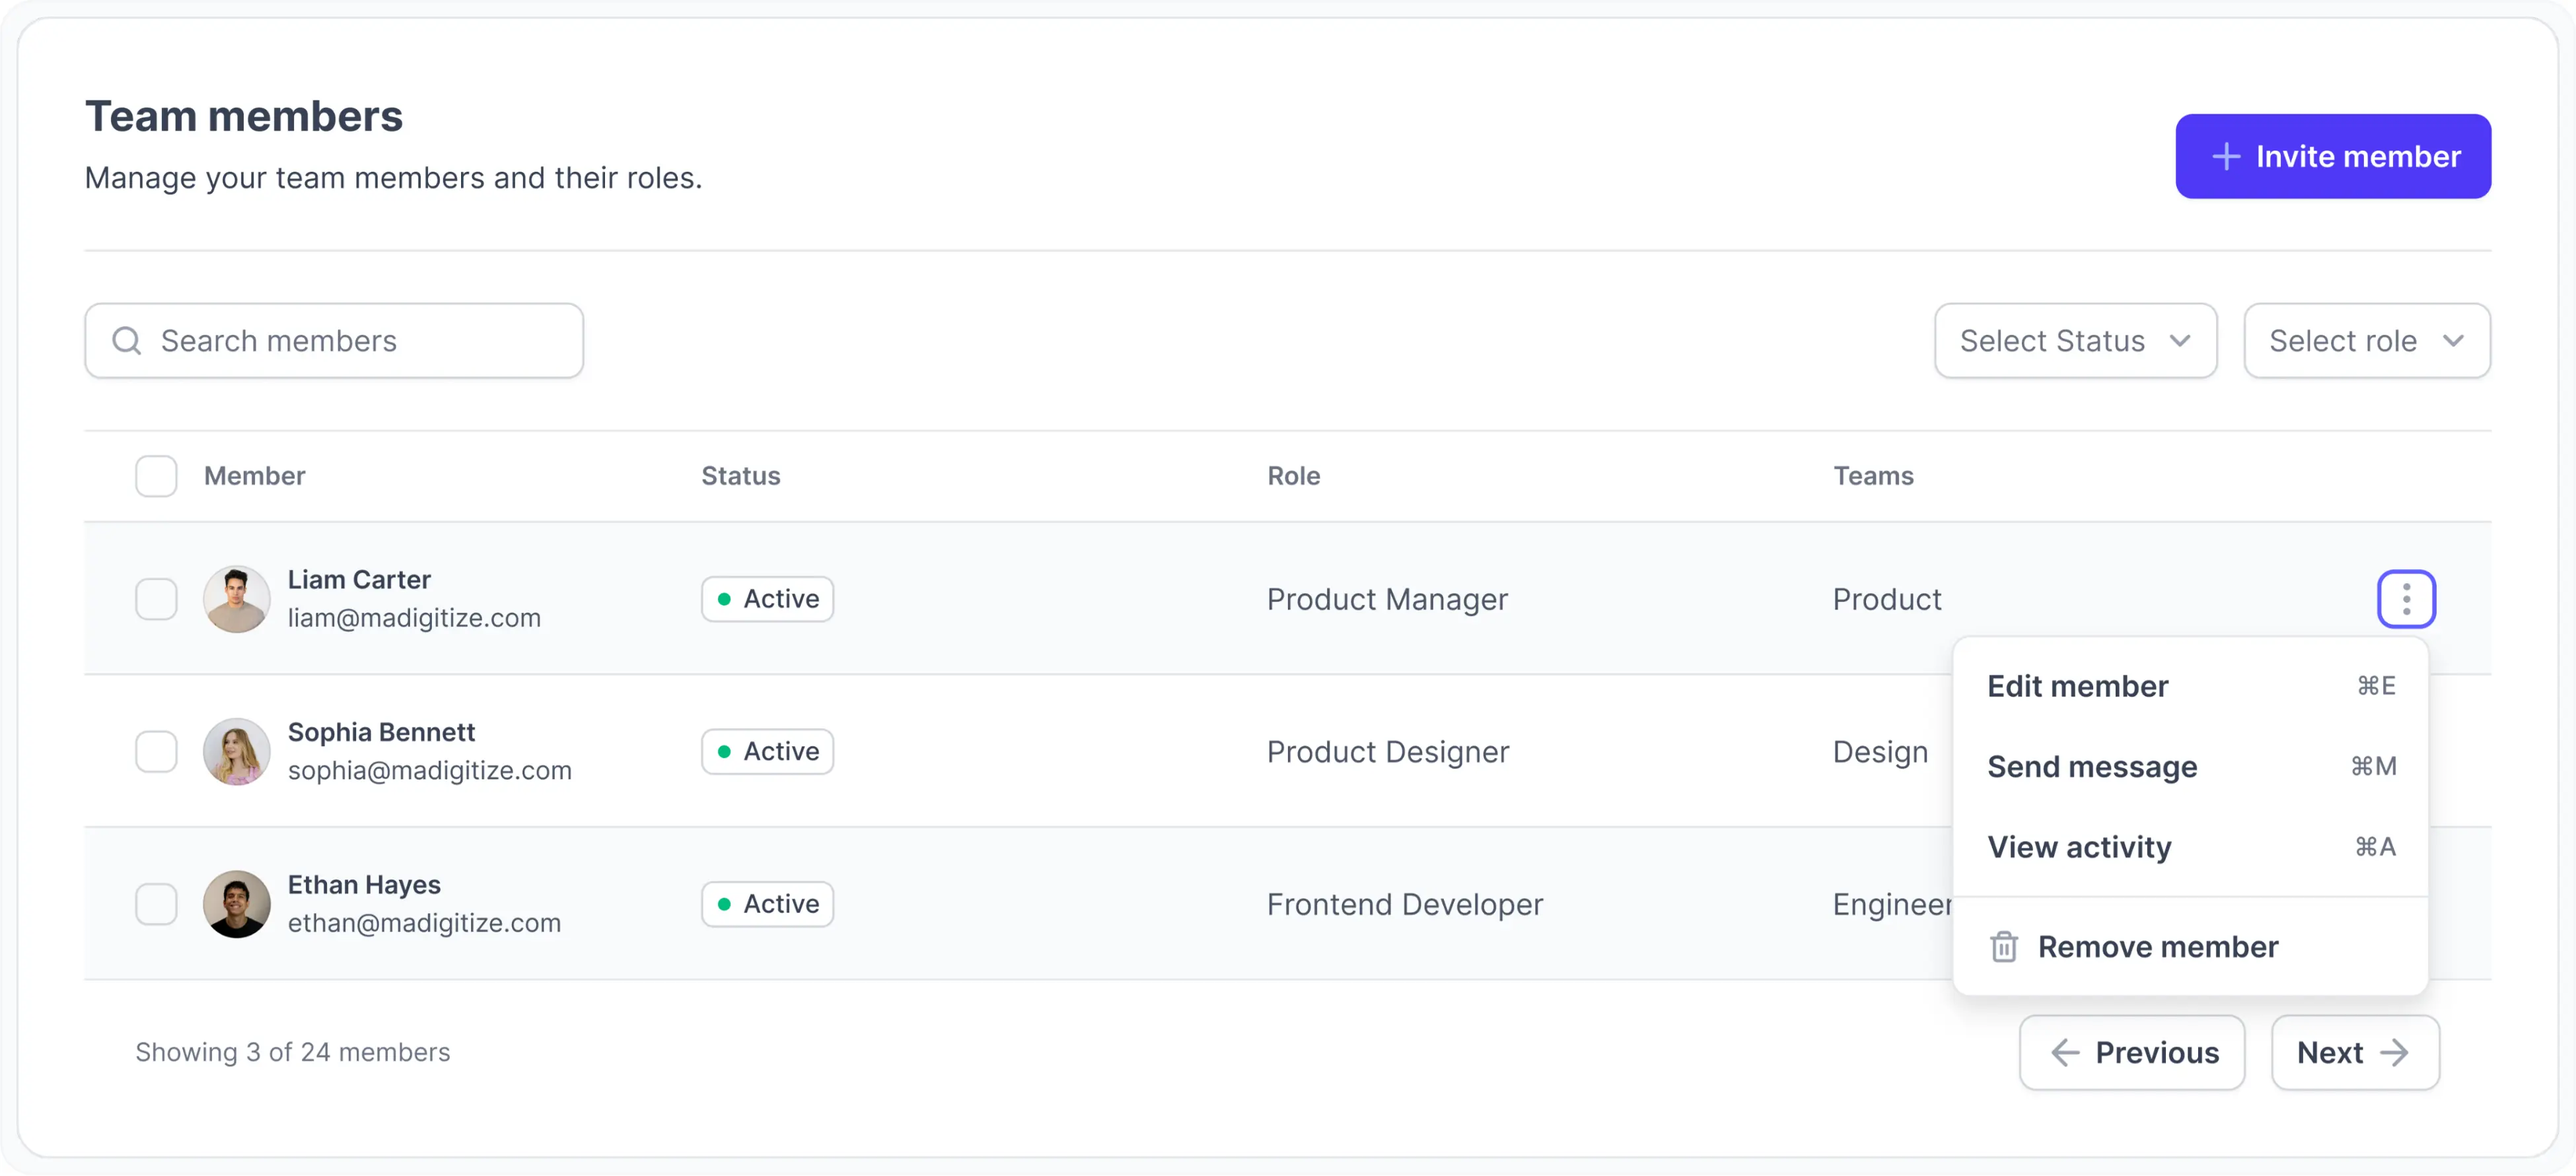
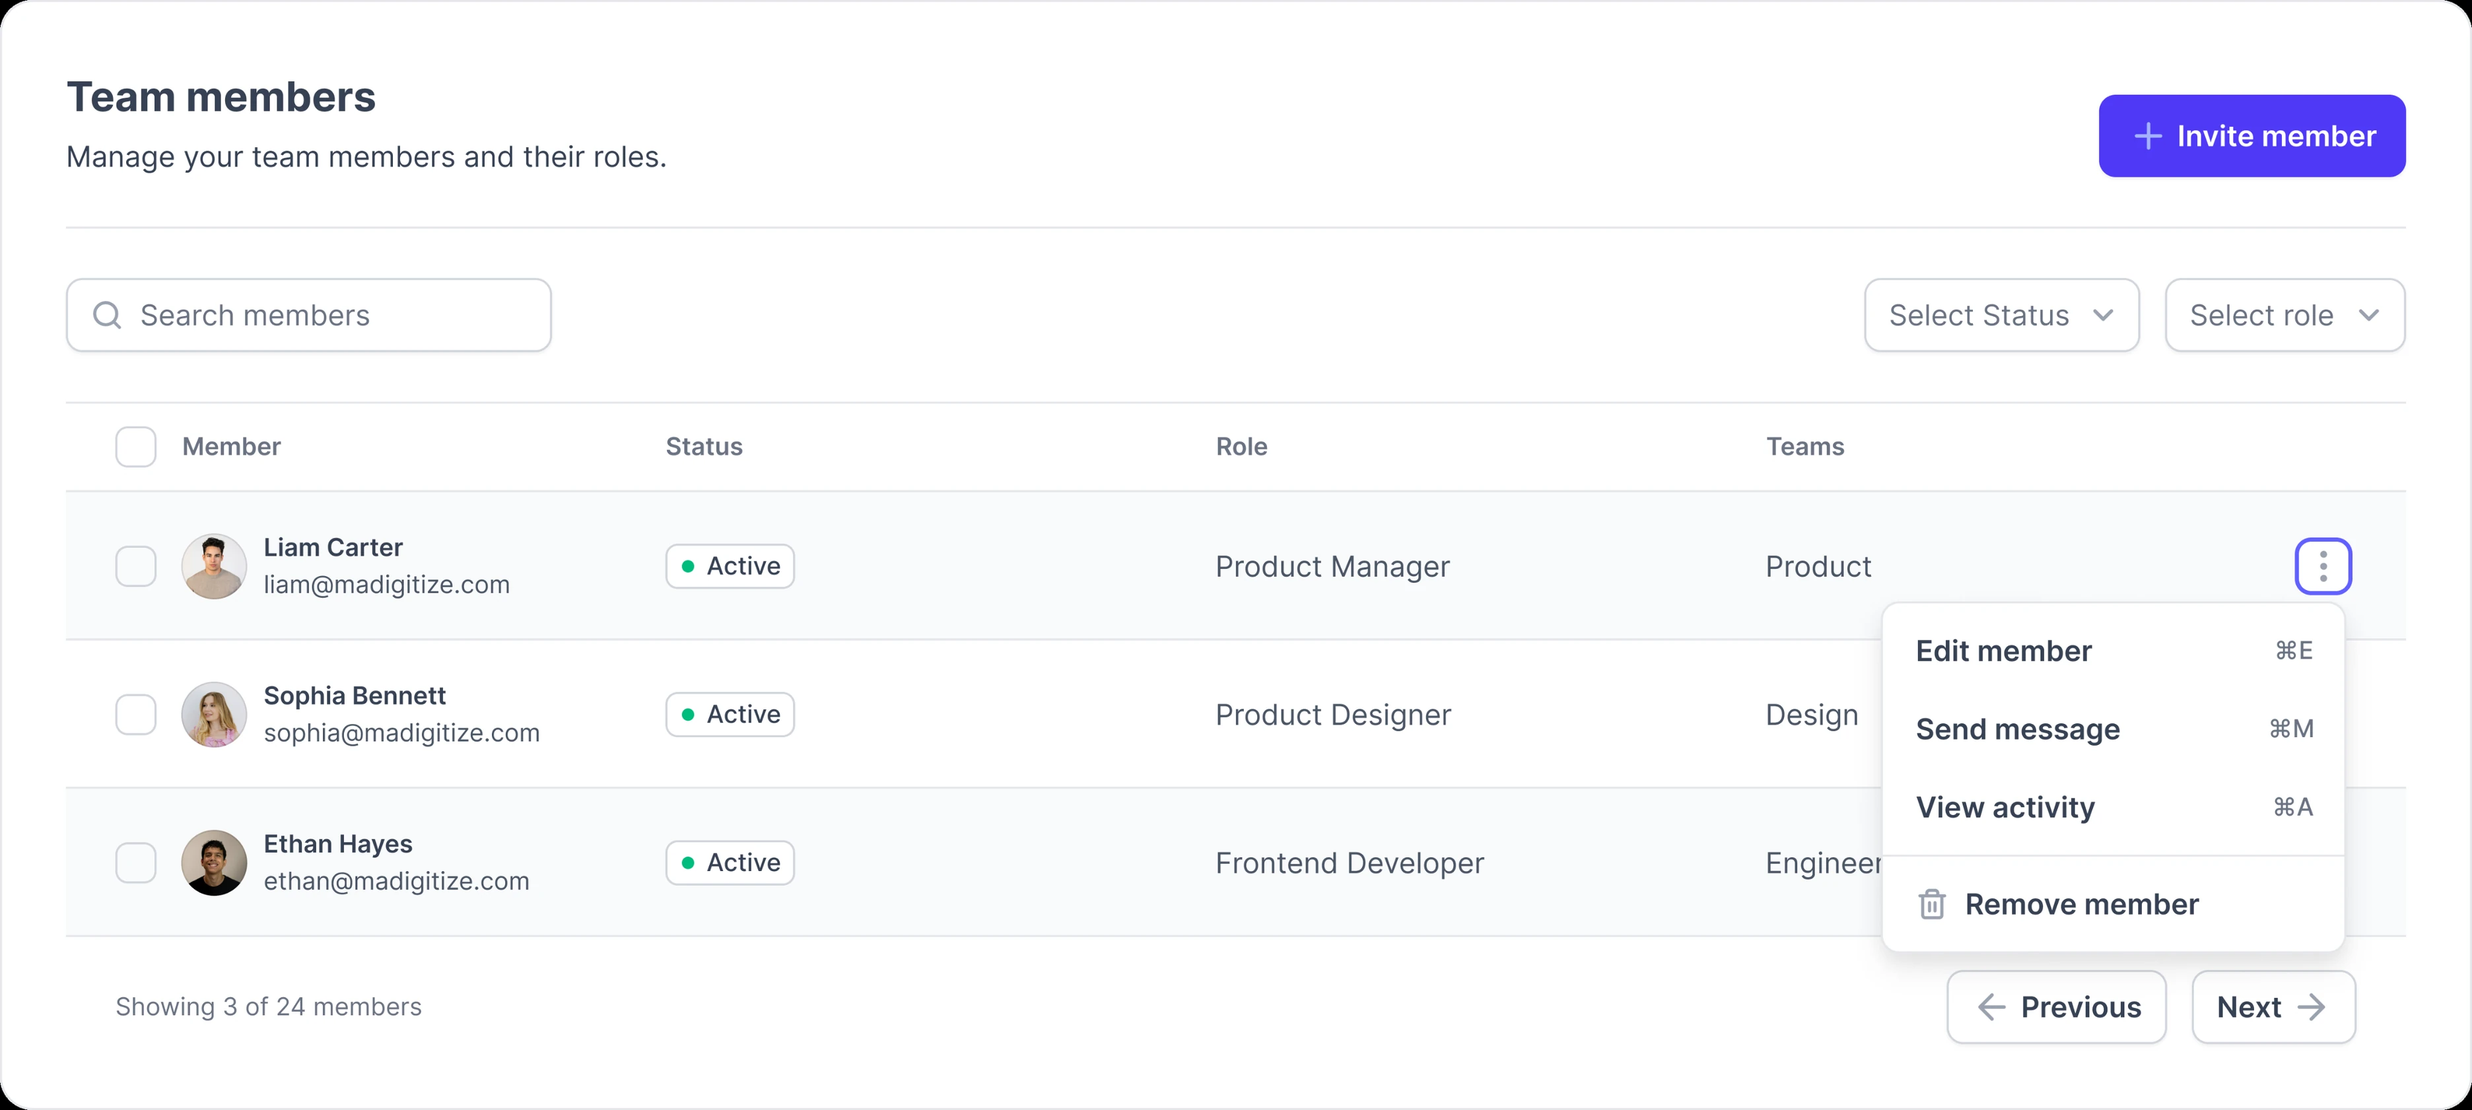
changed hero section image

diff --git a/src/components/sections/hero.tsx b/src/components/sections/hero.tsx
@@ -30,15 +30,16 @@ export default function Hero() {
           </div>
         </Reveal>
         <Reveal immediate delay={450} y={32} className="mt-8 md:mt-12 lg:mt-14 w-full max-w-[1248px]">
-          <div className="relative aspect-[1248/570] w-full overflow-hidden bg-[#ffffff]">
+          <div className="relative aspect-[1248/570] w-full overflow-hidden rounded-2xl bg-[#F9FAFB]">
             <Image
-              src="/hero_preview.svg"
+              src="/hero_preview.webp"
               alt="MA UI Kit Dashboard Preview"
               fill
               priority
               fetchPriority="high"
-              sizes="(max-width: 1248px) 100vw, 1248px"
-              className="object-cover"
+              quality={90}
+              sizes="(max-width: 768px) 100vw, (max-width: 1248px) 100vw, 1248px"
+              className="object-cover object-left-top"
             />
           </div>
         </Reveal>
